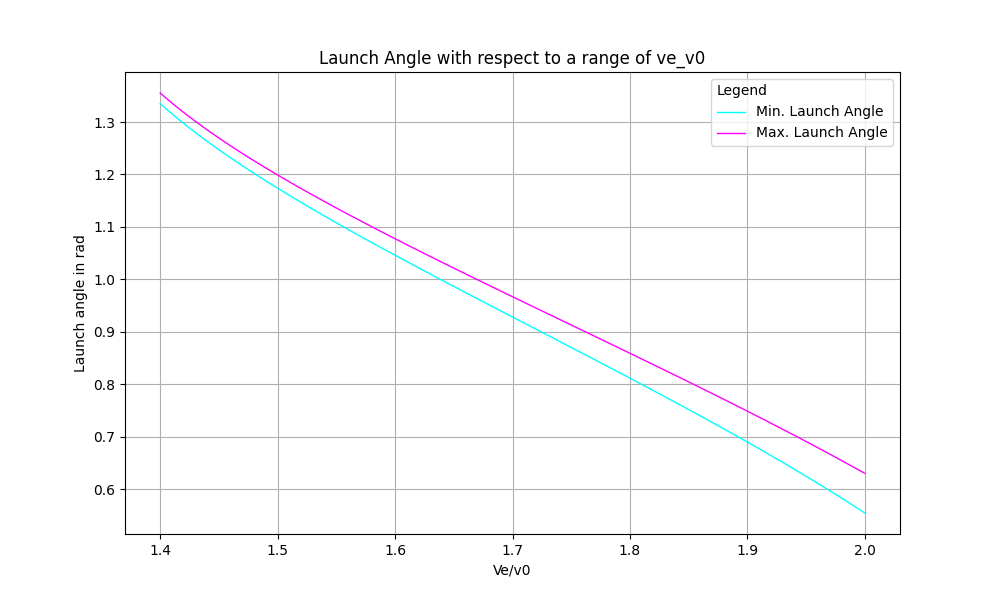
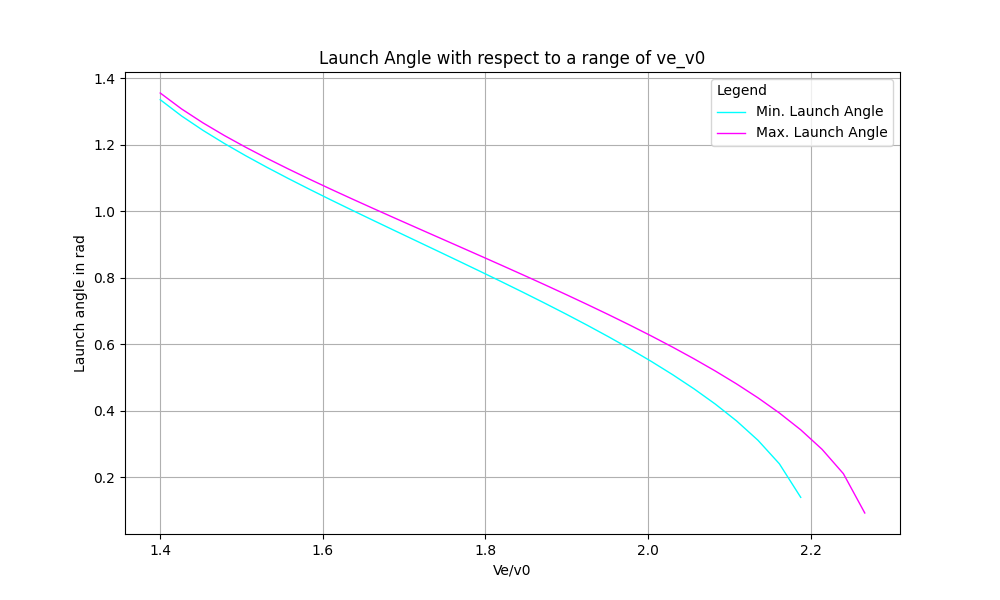
Final code, alpha range modified

diff --git a/examples/Lab1functions.py b/examples/Lab1functions.py
@@ -20,6 +20,8 @@ def main():
            )
 
      """
+
+
     ve_v0 = 2.0  # for when kept constant
     alpha = 0.25  # for when kept constant
     tol_alpha = 0.04  # for when kept constant
@@ -27,7 +29,7 @@ def main():
     launch_angle_range(ve_v0, alpha, tol_alpha)
 
     # Define range for ve_v0
-    rng_ve_v0 = np.linspace(1.4, 2.0, 100)
+    rng_ve_v0 = np.linspace(1.4, 4.0, 100)
 
     min_ve_v0 = []
     max_ve_v0 = []
@@ -49,7 +51,7 @@ def main():
     plt.show()
 
     # Define range for alpha
-    rng_alpha = np.linspace(0.01, 0.04, 100)
+    rng_alpha = np.linspace(0.0, 0.04, 100)
 
     min_angle = []
     max_angle = []

diff --git a/tests/tests.py b/tests/tests.py
@@ -90,7 +90,7 @@ def test_launch_angle_range():
 
     ve_v0 = 2.0  # input
     alpha = 0.25
-    tol_alpha = 0.04
+    tol_alpha = 0.02
     print(f"now testing the launch_angle_range function: finding result for alpha value {alpha}, ve_v0 value {ve_v0}, and tol_alpha value {tol_alpha}")
 
     # using numpy functions to calc. expected values:
